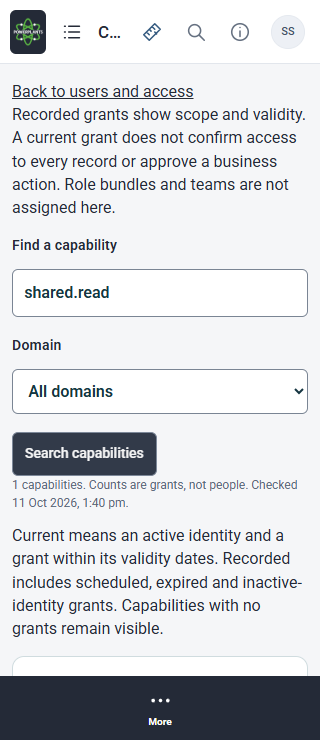
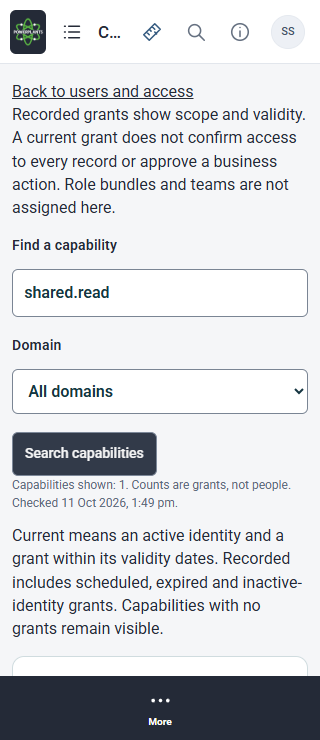
AD-01: record final capability verification and review boundaries

Changed region(s): [[0.0312, 0.6216, 0.9375, 0.6838]]

diff --git a/docs/testing/evidence/access-capabilities/README.md b/docs/testing/evidence/access-capabilities/README.md
@@ -2,7 +2,7 @@
 
 <!-- versioning: git; committed history is authoritative -->
 
-Owner: Dean Fiedler. Status: local database/build verification recorded; browser/visual evidence in progress. Owner visual, device and operational acceptance separate.
+Owner: Dean Fiedler. Status: local verification recorded; PR CI and independent review remain separate. Owner visual, device and operational acceptance separate.
 
 ## Scope and source
 
@@ -12,11 +12,14 @@ The catalogue is exhaustive against the 132-key server Capability union. It does
 
 ## Verification record
 
-Application source: `fa89c3e`. Tests extend `tests/database/access-inspection.test.ts` and `tests/browser/access-inspection.spec.ts`, which run in the existing application assurance suites.
+Final application source: `f3349fdf34141b7215850c043b1936e5171aab72`. Database implementation proof: `fa89c3e`; subsequent runtime changes name the routes in the breadcrumb and correct singular-result copy. Tests extend `tests/database/access-inspection.test.ts` and `tests/browser/access-inspection.spec.ts`, which run in the existing application assurance suites.
 
 | Check | Result |
 |---|---|
 | `npm run build` (including whole-project TypeScript) | Pass |
+| Native browser/HTTP checks on compiled application | 15 pass across desktop, 390 px and 320 px; [raw result](browser.txt) |
+| Navigation unit checks | 20 pass |
+| Focused retained-r17 shell comparison | 1 pass; the prerequisite PR #410 menu-count correction is integrated |
 | ESLint over the access module, page/API routes and database/browser tests | Pass |
 | AD-01 database suite, disposable `ppo_synthetic_test` | 16 checks pass; [raw result](database.txt) |
 | Naming, foundation and prototype checks | Pass; documentation assurance only |
@@ -33,3 +36,20 @@ PostgreSQL initially could not bind the former local port; the task-owned dispos
 The retained AD-01 capabilities view combines the catalogue with proposed roles/teams and an inspector. Native catalogue/detail routes use existing cards and controls, and show only real grants. This is a proposed adaptation; accepted native mockup images are missing. Source presence, automated functional proof, paired visual observation, owner/device/zoom/screen-reader acceptance and deployment remain separate. No review fingerprint is assigned by implementation.
 
 The first browser run passed 12 of 15 scenarios; all three catalogue journeys expected a visible heading, whereas the shared register header delegates the visible title to the breadcrumb. Inspection also found that the new route inherited the parent label. Explicit catalogue/holder/person route metadata fixes the visible task and browser title, and the test now checks the breadcrumb. The original failed run is retained in `initial-browser-label-failure.txt`; the final browser result is recorded separately.
+
+
+The second browser run also passed 12 of 15: its breadcrumb locator matched both the visible breadcrumb and the hidden hierarchy item. The corrected test selects the labelled visible list; the 15-scenario run passes without changing runtime behaviour or deadlines. `browser-selector-failure.txt` retains that failed run. The final copy-only adjustment avoids “1 capabilities”; the compiled build, native browser suite and captures were refreshed afterward.
+
+## Visual comparison and handover
+
+[Capture manifest](captures.json) binds twelve unedited PNGs to the source, Chrome version, UTC time, viewport and SHA-256. The working HTML hash is included. Native catalogue images show `shared.read` filtered; reference images show the unfiltered capabilities view, so they compare layout rather than fixture counts. Native holder images show Site-filtered grants; context images show the preselected Person access form before submitting a check.
+
+| Width | Native catalogue | Native holders | Person context | Retained design |
+|---|---|---|---|---|
+| 1440 px | [Catalogue](native-1440-catalogue.png) | [Holders](native-1440-holders.png) | [Context](native-1440-context.png) | [Reference](reference-1440-catalogue.png) |
+| 390 px | [Catalogue](native-390-catalogue.png) | [Holders](native-390-holders.png) | [Context](native-390-context.png) | [Reference](reference-390-catalogue.png) |
+| 320 px | [Catalogue](native-320-catalogue.png) | [Holders](native-320-holders.png) | [Context](native-320-context.png) | [Reference](reference-320-catalogue.png) |
+
+Observed: native pages use the live shell/breadcrumb, stacked search fields and grant cards instead of the retained combined table and inspector. Long company/site text wraps; same-name company keys remain visible; the phone header abbreviates the task and the hierarchy retains its full name. Native navigation remains separate from proposed role/team tabs. No horizontal document overflow was measured at any captured width. Cards, explanation fields and reference tables continue below the first phone viewport; physical keyboard occlusion, 200% zoom, touch and screen-reader acceptance are not established here. These are implementer observations, not an owner verdict or baseline adoption.
+
+The follow-on PR is based on the read-only inspection branch from #410, including its tested menu assertion correction. Parent review/merge, full CI and this catalogue's independent review remain separate. Roles, teams, change requests, approvals and campaigns are still open AD-01 work.

diff --git a/docs/STATUS.md b/docs/STATUS.md
@@ -6,7 +6,7 @@
 
 ## AD-01 capability catalogue continuation — 11 October 2026
 
-Dean's instruction to proceed with the next task continues AD-01 from PR #410 on `codex/ad01-capability-catalogue`. The [native decision](decisions/access-review-native.md#capability-catalogue-continuation--11-october-2026) adds the 132-key capability catalogue, scope/state-filtered grant holders and person-explanation context. Counts remain grant rows, not effective business authority. This increment introduces no migration, seed or access change. The [execution record](testing/evidence/access-capabilities/README.md) retains validation and limits; owner visual review, roles/teams, access changes and campaigns remain open.
+Dean's instruction to proceed with the next task continues AD-01 from PR #410 on `codex/ad01-capability-catalogue`. The [native decision](decisions/access-review-native.md#capability-catalogue-continuation--11-october-2026) adds the 132-key capability catalogue, scope/state-filtered grant holders and person-explanation context. Counts remain grant rows, not effective business authority. This increment introduces no migration, seed or access change. The [execution record](testing/evidence/access-capabilities/README.md) retains validation and limits; owner visual review, roles/teams, access changes and campaigns remain open. The build/type check, 16 database checks, 15 native browser checks and 20 navigation checks pass locally. Twelve source-bound captures retain the proposed adaptation. PR #410 also receives the tested menu-count correction; full CI and review remain separate.
 
 ## AD-01 native access inspection — 11 October 2026
 

diff --git a/docs/design/development/ui-build-sequence.md b/docs/design/development/ui-build-sequence.md
@@ -5,7 +5,7 @@
 Status: **Rules SD-01 to SD-05 adopted 9 October 2026; derived from the register; phase 00 owner-reviewed 9 October 2026, reviews stale after refinement batch 1**. The proposal and its departures from r02 are in
 [the decision record](../../decisions/ui-build-sequence.md).
 
-- Register: `docs\design\development\register.json` (SHA-256 `ee51ac1881180002…`).
+- Register: `docs\design\development\register.json` (SHA-256 `284e03e8df4f7d5d…`).
 - Phases and ranks: build plan r02 in `docs\reference\ui\app-page-register\PPO-App-Page-Register-r05.html` (SHA-256 `b07890f2cec60284…`). Recommended dependency-led implementation sequence based on the 20 September 2026 source snapshot; not an approved schedule or an estimate of effort.
 - 354 entries: 351 placed in a phase and 3 excluded. 28 have an owner visual review recorded.
 - 194 built and awaiting owner review; 106 to refine; 45 to build; 6 awaiting a scope decision.

diff --git a/docs/design/development/pages/route-admin-access-capabilities-id.md b/docs/design/development/pages/route-admin-access-capabilities-id.md
@@ -24,4 +24,4 @@ Existing [working AD-01 HTML](../../access-review/access-review.html), capabilit
 
 ## Evidence and open review
 
-[Execution ledger](../../../testing/evidence/access-capabilities/README.md) records actual verification and native/reference captures when taken. Accepted native mockup images are missing. Owner visual review, physical-device, zoom and screen-reader acceptance remain pending. No review fingerprint is assigned by implementation and no deployment is claimed.
+[Execution ledger](../../../testing/evidence/access-capabilities/README.md) records 16 database checks, 15 native browser checks and twelve source-bound native/reference captures at 1440/390/320 px, with explicit observed adaptations. Accepted native mockup images are missing. Owner visual review, physical-device, zoom and screen-reader acceptance remain pending. No review fingerprint is assigned by implementation and no deployment is claimed.

diff --git a/docs/design/development/pages/route-admin-access-capabilities.md b/docs/design/development/pages/route-admin-access-capabilities.md
@@ -24,4 +24,4 @@ Existing [working AD-01 HTML](../../access-review/access-review.html), capabilit
 
 ## Evidence and open review
 
-[Execution ledger](../../../testing/evidence/access-capabilities/README.md) records actual verification and native/reference captures when taken. Accepted native mockup images are missing. Owner visual review, physical-device, zoom and screen-reader acceptance remain pending. No review fingerprint is assigned by implementation and no deployment is claimed.
+[Execution ledger](../../../testing/evidence/access-capabilities/README.md) records 16 database checks, 15 native browser checks and twelve source-bound native/reference captures at 1440/390/320 px, with explicit observed adaptations. Accepted native mockup images are missing. Owner visual review, physical-device, zoom and screen-reader acceptance remain pending. No review fingerprint is assigned by implementation and no deployment is claimed.
